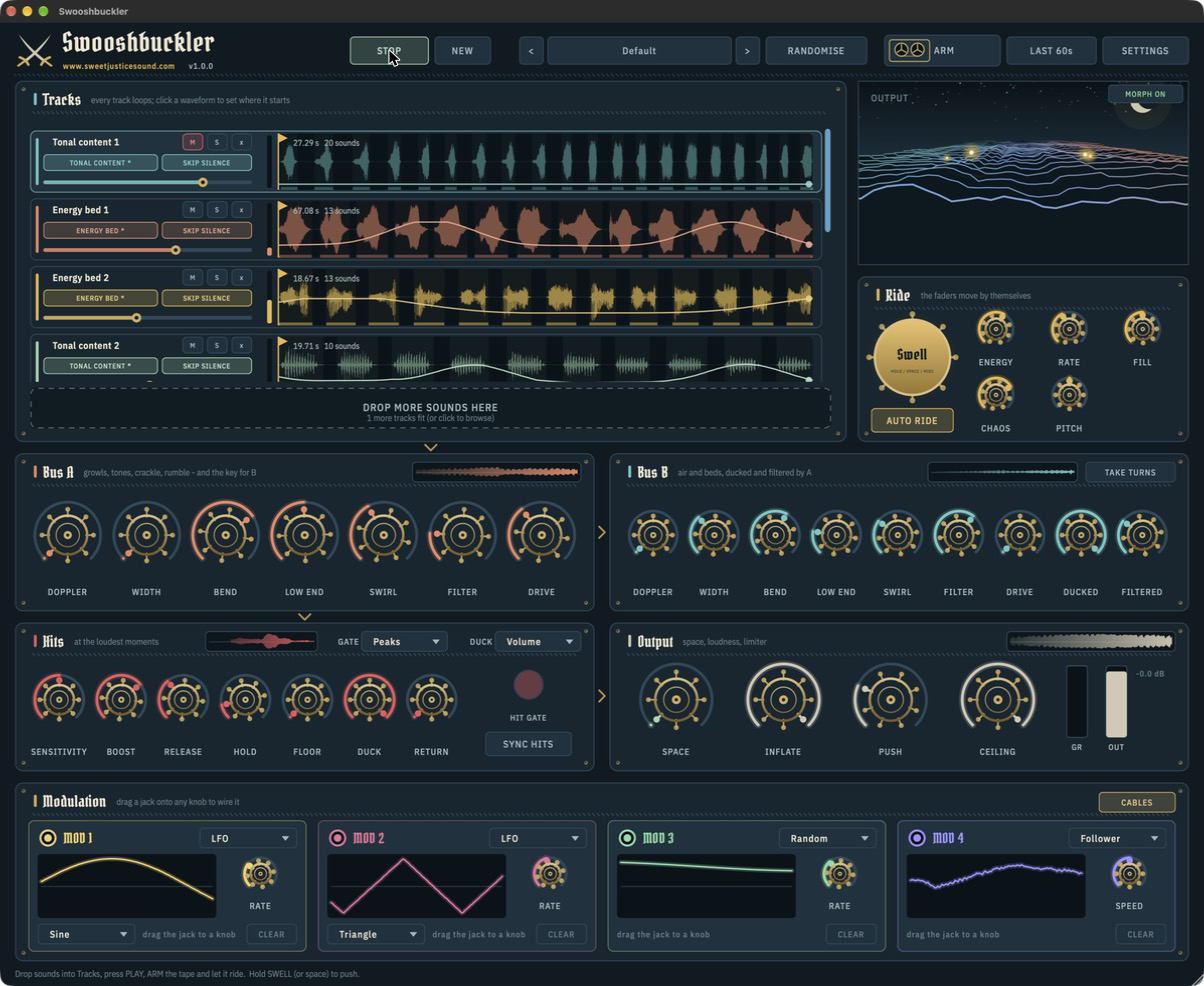
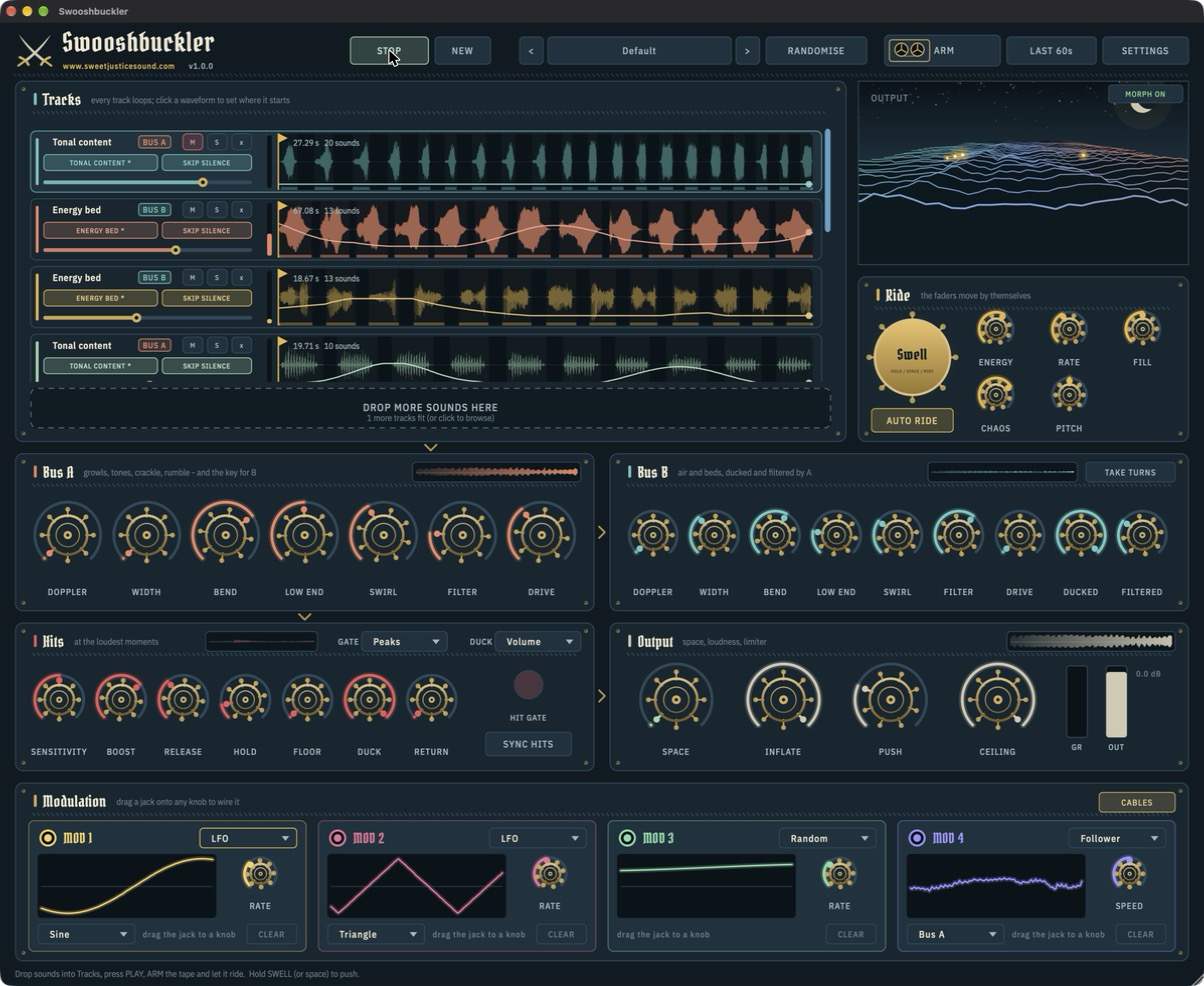
Swooshbuckler: tracks show their bus; type names aren't numbered
Each track's name row has a BUS A / BUS B / HITS tag in that section's
colour, with a tooltip; it follows the sound type. Automatic names are
just the type ('Tonal content'), no longer numbered. New screenshot.

diff --git a/swooshbuckler/Source/CargoHoldView.cpp b/swooshbuckler/Source/CargoHoldView.cpp
@@ -176,10 +176,32 @@ public:
         g.fillRoundedRectangle(bounds.getX() + 6.0f, bounds.getY() + 8.0f, 3.0f, bounds.getHeight() - 16.0f, 1.5f);
 
         auto header = headerArea(getLocalBounds());
+        auto nameRow = header.removeFromTop(18).withTrimmedLeft(10).withTrimmedRight(86);
+        if (hasData())
+        {
+            // Where the track plays: a tag in that section's colour, right of the name. Follows the type.
+            const int bus = m_owner.m_hold.getBus(m_track);
+            const auto tagColour = busColour(bus);
+            const auto tagText = busTag(bus);
+            g.setFont(fonts.label(10.0f));
+            const int tagW = juce::roundToInt(juce::GlyphArrangement::getStringWidth(g.getCurrentFont(), tagText)) + 10;
+            const auto tag = nameRow.removeFromRight(tagW).reduced(0, 2).toFloat();
+            nameRow.removeFromRight(6);
+            m_busTagArea = tag.toNearestInt();
+            g.setColour(tagColour.withAlpha(0.16f));
+            g.fillRoundedRectangle(tag, 3.0f);
+            g.setColour(tagColour.withAlpha(0.8f));
+            g.drawRoundedRectangle(tag.reduced(0.5f), 3.0f, 1.0f);
+            g.setColour(tagColour);
+            g.drawText(tagText, tag, juce::Justification::centred, false);
+        }
+        else
+        {
+            m_busTagArea = {};
+        }
         g.setFont(fonts.heading(12.0f));
         g.setColour(TC::text);
-        g.drawText(m_owner.m_hold.getDisplayName(m_track), header.removeFromTop(18).withTrimmedLeft(10).withTrimmedRight(80),
-                   juce::Justification::centredLeft, true);
+        g.drawText(m_owner.m_hold.getDisplayName(m_track), nameRow, juce::Justification::centredLeft, true);
 
         const auto wave = waveArea();
         const auto wf = wave.toFloat();
@@ -369,8 +391,16 @@ public:
     {
         const auto pos = getMouseXYRelative();
         auto header = headerArea(getLocalBounds());
+        if (hasData() && m_busTagArea.contains(pos))
+        {
+            const int bus = m_owner.m_hold.getBus(m_track);
+            return busTag(bus) + "\nWhere this track plays: "
+                   + (bus == CargoHold::c_hitsBus ? juce::String("the hits, which only open at the biggest moments of buses A and B.")
+                                                   : busLabel(bus) + (bus == 0 ? ", the bus that leads and ducks bus B." : ", the bus that sits under bus A."))
+                   + " It follows the sound type.\nClick the type badge underneath to change the type, and so the bus.";
+        }
         if (header.removeFromTop(18).contains(pos))
-            return "Track name\nNamed from the file and its sound type.\nDouble-click to rename it.";
+            return "Track name\nNamed after its sound type, until you rename it.\nDouble-click to rename it.";
         if (hasData() && waveArea().contains(pos))
             return "Waveform\nThe flag marks where this track starts playing; it loops from there and the part before it is dimmed. "
                    "With skip silence on, the bright parts are the sounds it plays and the faint parts are the gaps it skips.\n"
@@ -486,6 +516,19 @@ private:
         m_owner.m_hold.rename(m_track, name);
     }
 
+    static juce::String busTag(int bus)
+    {
+        if (bus == CargoHold::c_hitsBus) return "HITS";
+        return juce::String("BUS ") + ParamIDs::busNames[juce::jlimit(0, CargoHold::c_maxBuses - 1, bus)];
+    }
+
+    static juce::Colour busColour(int bus)
+    {
+        // The colours of the sections' knobs: bus A coral, bus B turquoise, hits red.
+        if (bus == CargoHold::c_hitsBus) return TC::record;
+        return bus == 0 ? TC::movement : TC::sources;
+    }
+
     static juce::String busLabel(int bus)
     {
         if (bus == CargoHold::c_hitsBus) return "the hits";
@@ -555,6 +598,7 @@ private:
     juce::Slider m_level;
     juce::TextButton m_type, m_mute { "M" }, m_solo { "S" }, m_remove { "x" }, m_skip { "SKIP SILENCE" };
     juce::TextEditor m_nameEditor;
+    juce::Rectangle<int> m_busTagArea; // set in paint(), for the tooltip
     juce::AudioProcessorValueTreeState::SliderAttachment m_levelAttachment;
 };
 

diff --git a/swooshbuckler/Source/Cargo.cpp b/swooshbuckler/Source/Cargo.cpp
@@ -295,7 +295,7 @@ juce::String CargoHold::typeName(CargoRole role)
 juce::String CargoHold::getDisplayName(int track) const
 {
     // A user rename wins. Otherwise the track is named after what the scan found it to be
-    // ("Tonal content", "Energy bed", ...), numbered when the same type appears more than once.
+    // ("Tonal content", "Energy bed", ...). Not numbered: the lane colour tells two of a kind apart.
     if (track < 0 || track >= c_numTracks)
         return {};
     const auto& t = m_tracks[static_cast<size_t>(track)];
@@ -303,22 +303,7 @@ juce::String CargoHold::getDisplayName(int track) const
         return t.userName;
     if (t.current == nullptr)
         return "Track " + juce::String(track + 1);
-
-    const auto role = getRole(track);
-    int same = 0, index = 0;
-    for (int i = 0; i < c_numTracks; ++i)
-    {
-        if (m_tracks[static_cast<size_t>(i)].current == nullptr || getRole(i) != role)
-            continue;
-        ++same;
-        if (i == track)
-            index = same;
-    }
-    int total = 0;
-    for (int i = 0; i < c_numTracks; ++i)
-        if (m_tracks[static_cast<size_t>(i)].current != nullptr && getRole(i) == role)
-            ++total;
-    return typeName(role) + (total > 1 ? " " + juce::String(index) : juce::String());
+    return typeName(getRole(track));
 }
 
 void CargoHold::rename(int track, const juce::String& name)

diff --git a/swooshbuckler/README.md b/swooshbuckler/README.md
@@ -134,7 +134,8 @@ To work with a wire's plug on a knob:
 | Control | What it does |
 |---|---|
 | **Fader** | The track's level. With auto ride on, it's how high the ride can take it. |
-| **Type badge** | The sound type it was sorted into. Click it to change it. |
+| **Bus tag** | Where the track plays: BUS A, BUS B or HITS. It follows the sound type. |
+| **Type badge** | The sound type it was sorted into, which also picks its bus. Click it to change it. |
 | **SKIP SILENCE** | On: only the sounds play. Off: the whole file loops, silence and all. |
 | **M / S / x** | Mute, solo, remove (undo with Cmd+Z, or Ctrl+Z on Windows). |
 | Double-click the name | Rename the track. |
